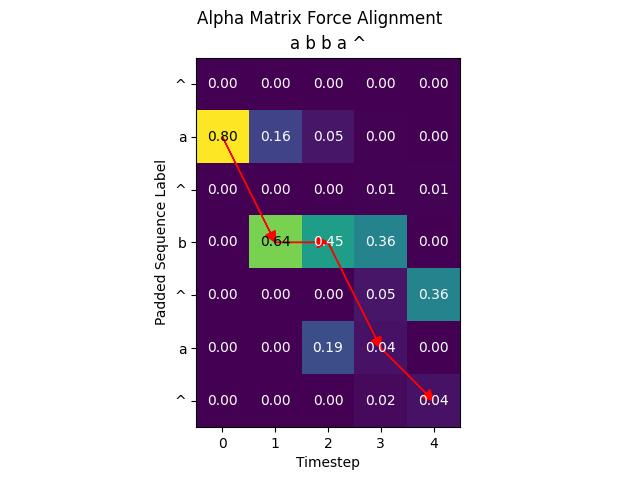
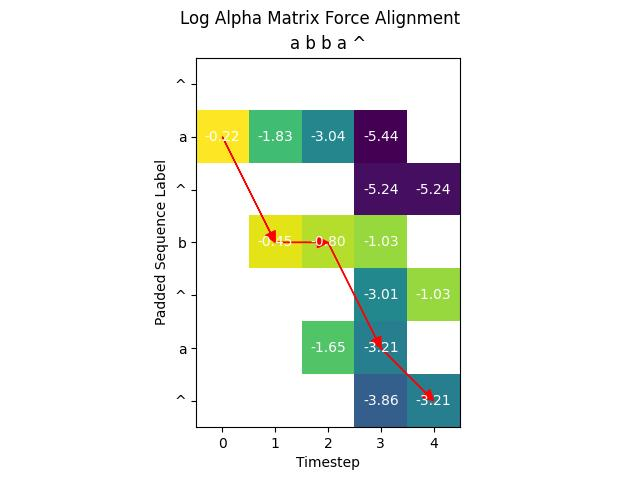
log probs (plot for 7 not working)

Changed region(s): [[0.2812, 0.125, 0.7188, 0.9062], [0.2812, 0.0, 0.7188, 0.0625], [0.6562, 0.375, 0.7188, 0.4062]]

diff --git a/main.py b/main.py
@@ -1,5 +1,6 @@
 import math
 import os
+import pickle as pkl
 from collections import defaultdict
 
 import librosa
@@ -59,7 +60,7 @@ def plot_melspectrograms(recordings):
             ax.set_title(f'{x}: {name}')
 
     plt.tight_layout()
-    plt.savefig('melspectrograms.jpg')
+    plt.savefig(os.path.join(BASE_DIR, 'melspectrograms.jpg'))
     plt.close()
 
 
@@ -81,6 +82,14 @@ def sequence_to_padded_sequence_indices(sequence, alphabet_labels, blank_index):
     return padded_sequence_indices
 
 
+def prob_to_log_prob(p):
+    return math.log(p) if p > 0 else -math.inf
+
+
+def log_prob_to_prob(lp):
+    return math.exp(lp) if lp > -math.inf else 0
+
+
 def CTC_forward_pass(sequence, pred, alphabet_labels, blank_index, force_align=False):
     padded_sequence_indices = sequence_to_padded_sequence_indices(sequence, alphabet_labels, blank_index)
 
@@ -91,14 +100,14 @@ def CTC_forward_pass(sequence, pred, alphabet_labels, blank_index, force_align=F
     def alpha_and_backpointer(t, s):
         p = pred[t, padded_sequence_indices[s]]
         if t == 0:
-            return p if s <= 1 else 0, -1
-        alpha_tags = [alpha_matrix[t - 1, s]]
+            return prob_to_log_prob(p if s <= 1 else 0), -1
+        alpha_tags = [log_prob_to_prob(alpha_matrix[t - 1, s])]
         if s >= 1:
-            alpha_tags.append(alpha_matrix[t - 1, s - 1])
+            alpha_tags.append(log_prob_to_prob(alpha_matrix[t - 1, s - 1]))
         if s >= 2 and not (padded_sequence_indices[s] == blank_index or (s >= 2 and padded_sequence_indices[s] == padded_sequence_indices[s - 2])):
-            alpha_tags.append(alpha_matrix[t - 1, s - 2])
+            alpha_tags.append(log_prob_to_prob(alpha_matrix[t - 1, s - 2]))
         alpha_tag = max(alpha_tags) if force_align else sum(alpha_tags)
-        alpha = alpha_tag * p
+        alpha = prob_to_log_prob(alpha_tag) + prob_to_log_prob(p)
         backpointer = np.argmax(alpha_tags) if force_align else -1
         return alpha, backpointer
 
@@ -126,7 +135,10 @@ def CTC_forward_pass(sequence, pred, alphabet_labels, blank_index, force_align=F
     return alpha_matrix, best_path_coordinates, best_path
 
 
-def plot_alpha_matrix(filename, title, padded_sequence_labels, alpha_matrix, best_path_coordinates=None, best_path=None):
+def plot_alpha_matrix(filename, title, alpha_matrix, best_path_coordinates=None, best_path=None):
+    padded_sequence_indices = sequence_to_padded_sequence_indices(sequence, alphabet_labels, blank_index)
+    padded_sequence_labels = [alphabet_labels[i] for i in padded_sequence_indices]
+
     alpha_matrix_T = alpha_matrix.T
     plt.imshow(alpha_matrix_T, cmap='viridis', interpolation='nearest')
     plt.suptitle(title)
@@ -148,7 +160,7 @@ def plot_alpha_matrix(filename, title, padded_sequence_labels, alpha_matrix, bes
             plt.arrow(y1, x1, y2 - y1, x2 - x1, color='red',
                       head_width=0.2, head_length=0.2, length_includes_head=True)
 
-    plt.savefig(filename)
+    plt.savefig(os.path.join(BASE_DIR, filename))
     plt.close()
 
 
@@ -172,10 +184,16 @@ if __name__ == '__main__':
     pred[4][2] = 1.00
     alphabet_labels, blank_index = {0: 'a', 1: 'b', 2: '^'}, 2
     sequence = 'aba'
-    padded_sequence_indices = sequence_to_padded_sequence_indices(sequence, alphabet_labels, blank_index)
-    padded_sequence_labels = [alphabet_labels[i] for i in padded_sequence_indices]
     #
     alpha_matrix, _, _ = CTC_forward_pass(sequence, pred, alphabet_labels, blank_index)
-    plot_alpha_matrix('alpha_matrix.jpg', 'Alpha Matrix', padded_sequence_labels, alpha_matrix)
+    plot_alpha_matrix('alpha_matrix.jpg', 'Log Alpha Matrix', alpha_matrix)
     alpha_matrix_force, best_path_coordinates_force, best_path_force = CTC_forward_pass(sequence, pred, alphabet_labels, blank_index, force_align=True)
-    plot_alpha_matrix('alpha_matrix_force.jpg', 'Alpha Matrix Force Alignment', padded_sequence_labels, alpha_matrix_force, best_path_coordinates_force, best_path_force)
+    plot_alpha_matrix('alpha_matrix_force.jpg', 'Log Alpha Matrix Force Alignment', alpha_matrix_force, best_path_coordinates_force, best_path_force)
+    #
+    data = pkl.load(open(os.path.join(BASE_DIR, 'force_align.pkl'), 'rb'))
+    pred = data['acoustic_model_out_probs']
+    alphabet_labels, blank_index = data['label_mapping'], 28
+    sequence = data['text_to_align']
+    #
+    alpha_matrix_force_pkl, best_path_coordinates_force_pkl, best_path_force_pkl = CTC_forward_pass(sequence, pred, alphabet_labels, blank_index, force_align=True)
+    plot_alpha_matrix('alpha_matrix_force_pkl.jpg', 'Log Alpha Matrix Force Alignment Pickle', alpha_matrix_force_pkl, best_path_coordinates_force_pkl, best_path_force_pkl)
